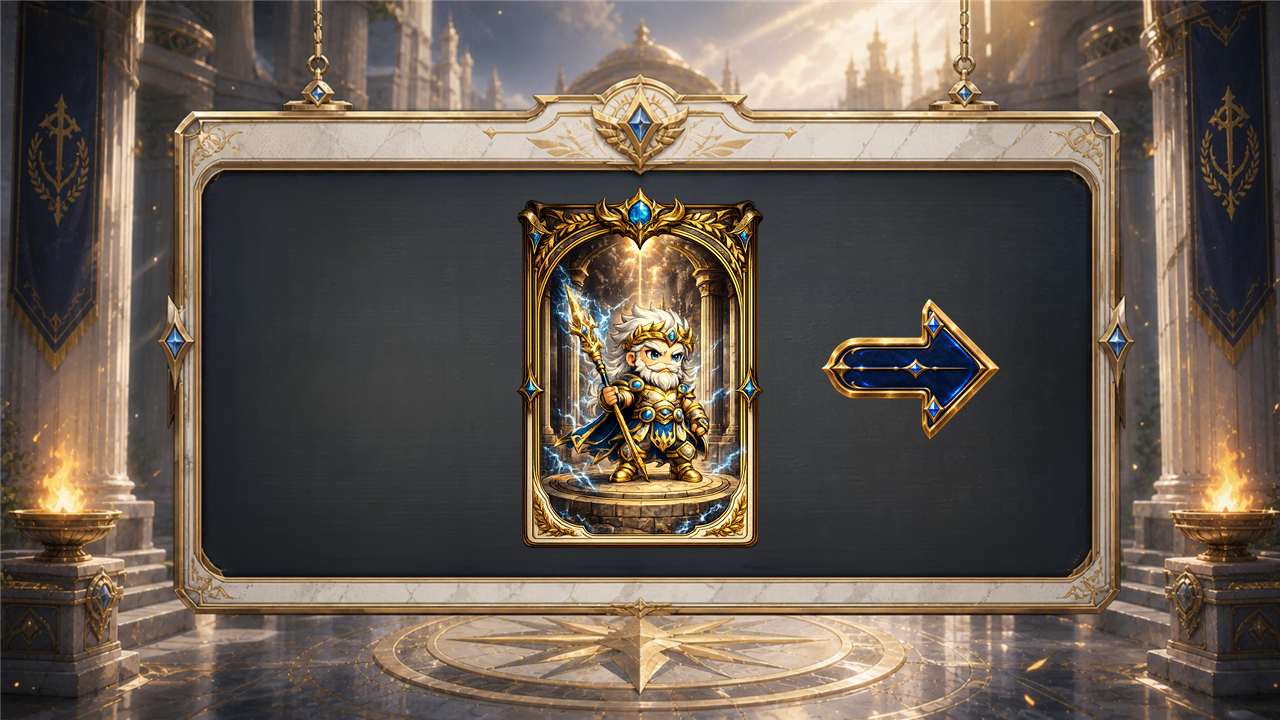
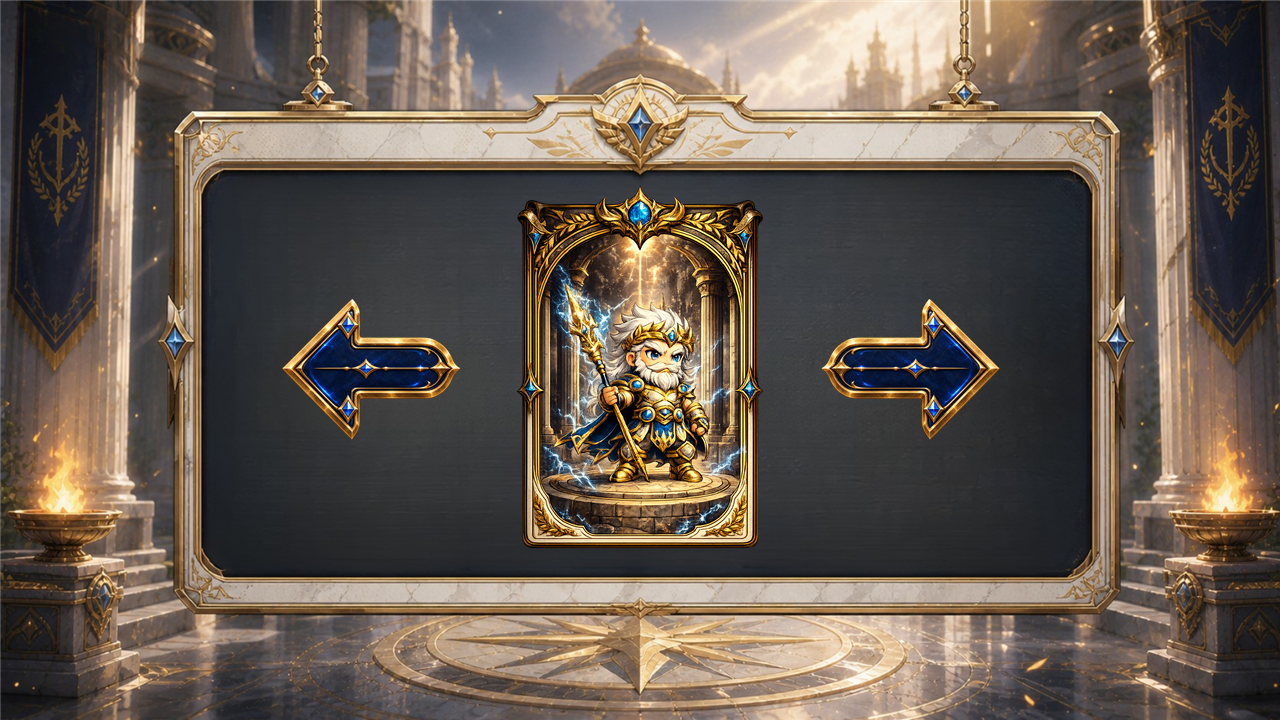
수정8

Changed region(s): [[0.2188, 0.4278, 0.375, 0.6111]]

diff --git a/style.css b/style.css
@@ -13854,6 +13854,7 @@ body:not(.game-started) .game-wrap {
 
 .prebattle-formation-board {
   position: relative;
+  --prebattle-arrow-side-offset: 20.8%;
   width: min(100vw, calc(100vh * 16 / 9));
   max-width: 100vw;
   max-height: 100vh;
@@ -13893,17 +13894,19 @@ body:not(.game-started) .game-wrap {
     drop-shadow(0 8px 10px rgba(0, 0, 0, 0.38));
 }
 
+.prebattle-formation-arrow-left {
+  left: var(--prebattle-arrow-side-offset);
+  transform: translateY(-50%) scaleX(-1);
+}
+
 .prebattle-formation-arrow-right {
-  right: 20.8%;
+  right: var(--prebattle-arrow-side-offset);
 }
 
 @media (max-width: 820px) {
   .prebattle-formation-board {
+    --prebattle-arrow-side-offset: 18%;
     width: 100vw;
-  }
-
-  .prebattle-formation-arrow-right {
-    right: 18%;
   }
 }
 

diff --git a/js/prebattleFormation.js b/js/prebattleFormation.js
@@ -17,6 +17,7 @@ function renderPrebattleFormation() {
 
   root.innerHTML = `
     <div class="prebattle-formation-board">
+      <img class="prebattle-formation-arrow prebattle-formation-arrow-left" src="assets/ui/arrow_right_redesign.png" alt="" aria-hidden="true" draggable="false">
       <img class="prebattle-formation-hero-card" src="assets/maps/formation/zeus.png" alt="제우스 카드" draggable="false">
       <img class="prebattle-formation-arrow prebattle-formation-arrow-right" src="assets/ui/arrow_right_redesign.png" alt="" aria-hidden="true" draggable="false">
     </div>
